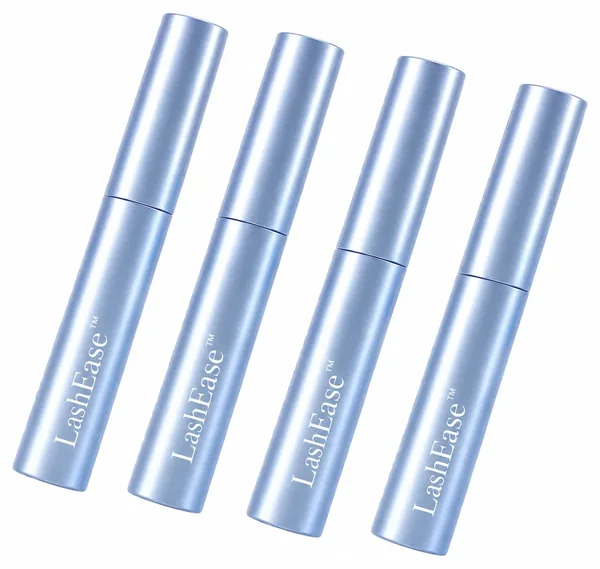
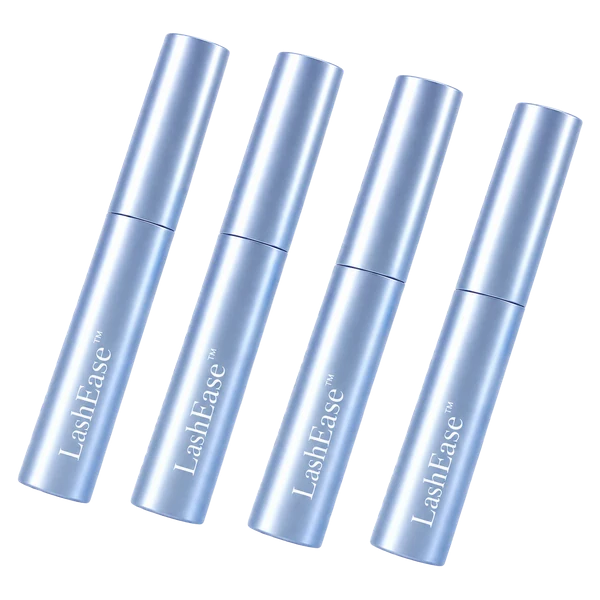
P281 BR+ZA: transparent picker thumbs (sel_1/2/4), thumb box transparent

diff --git a/cilivida-br/sp.css b/cilivida-br/sp.css
@@ -1328,7 +1328,8 @@
     width:auto; height:auto;
     object-fit:contain;
     display:block;
-  }:where(#cilivida-br-sp-root) .cvd-title{ font-size:26px; color:var(--brand-dk); margin:4px 0 12px; }:where(#cilivida-br-sp-root) .cvd-card{ border:1.5px solid #E2E7EE; border-radius:18px; box-shadow:0 2px 10px rgba(16,40,90,.06); }:where(#cilivida-br-sp-root) .cvd-card.is-selected{ border:2.5px solid var(--brand); background:#EEF8F3; box-shadow:0 10px 26px -12px rgba(11,125,87,.45); }:where(#cilivida-br-sp-root) .cvd-thumb{ background:#fff; border:1px solid #EEF1F5; }:where(#cilivida-br-sp-root) .cvd-name{ color:var(--ink); }:where(#cilivida-br-sp-root) .cvd-ribbon{ top:-12px; padding:3px 11px; letter-spacing:.5px; box-shadow:0 2px 6px rgba(16,40,90,.12); }:where(#cilivida-br-sp-root) .cvd-card-cta{ border-radius:999px; }
+  }:where(#cilivida-br-sp-root) .cvd-title{ font-size:26px; color:var(--brand-dk); margin:4px 0 12px; }:where(#cilivida-br-sp-root) .cvd-card{ border:1.5px solid #E2E7EE; border-radius:18px; box-shadow:0 2px 10px rgba(16,40,90,.06); }:where(#cilivida-br-sp-root) .cvd-card.is-selected{ border:2.5px solid var(--brand); background:#EEF8F3; box-shadow:0 10px 26px -12px rgba(11,125,87,.45); }:where(#cilivida-br-sp-root) .cvd-thumb{ background:transparent !important; border:0 !important; }
+  :where(#cilivida-br-sp-root) .cvd-name{ color:var(--ink); }:where(#cilivida-br-sp-root) .cvd-ribbon{ top:-12px; padding:3px 11px; letter-spacing:.5px; box-shadow:0 2px 6px rgba(16,40,90,.12); }:where(#cilivida-br-sp-root) .cvd-card-cta{ border-radius:999px; }
   :where(#cilivida-br-sp-root) .cvd-thumb{ aspect-ratio:1 / 1 !important; object-fit:contain !important; }@media (prefers-reduced-motion:reduce){:where(#cilivida-br-sp-root) .cvd-card, :where(#cilivida-br-sp-root) .cvd-cta{ transition:none; }}@media (max-width:360px){:where(#cilivida-br-sp-root) .cvd-thumb{ width:76px; height:76px; }:where(#cilivida-br-sp-root) .cvd-unit b{ font-size:24px; }:where(#cilivida-br-sp-root) .cvd-ribbon{ font-size:13px; letter-spacing:.1px; }}:where(#cilivida-br-sp-root) .cvd-card{ flex-wrap:wrap !important; padding:18px 16px 16px !important; cursor:default !important; }:where(#cilivida-br-sp-root) .cvd-thumb{ width:104px !important; height:104px !important; }:where(#cilivida-br-sp-root) .cvd-card-cta{
     flex:0 0 100%; display:block; box-sizing:border-box; text-align:center; text-decoration:none;
     background:var(--brand); color:#fff; border-radius:12px; padding:15px 12px; margin-top:4px;

diff --git a/lashease-za/sp.css b/lashease-za/sp.css
@@ -1328,7 +1328,8 @@
     width:auto; height:auto;
     object-fit:contain;
     display:block;
-  }:where(#lashease-za-sp-root) .lez-thumb{ aspect-ratio:1 / 1 !important; object-fit:contain !important; }@media (prefers-reduced-motion:reduce){:where(#lashease-za-sp-root) .lez-card, :where(#lashease-za-sp-root) .lez-cta{ transition:none; }}@media (max-width:360px){:where(#lashease-za-sp-root) .lez-thumb{ width:76px; height:76px; }:where(#lashease-za-sp-root) .lez-unit b{ font-size:24px; }:where(#lashease-za-sp-root) .lez-ribbon{ font-size:13px; letter-spacing:.1px; }}:where(#lashease-za-sp-root) .lez-card{ flex-wrap:wrap !important; padding:18px 16px 16px !important; cursor:default !important; }:where(#lashease-za-sp-root) .lez-thumb{ width:104px !important; height:104px !important; }:where(#lashease-za-sp-root) .lez-card-cta{
+  }:where(#lashease-za-sp-root) .lez-thumb{ aspect-ratio:1 / 1 !important; object-fit:contain !important; }
+  :where(#lashease-za-sp-root) .lez-thumb{ background:transparent !important; border:0 !important; }@media (prefers-reduced-motion:reduce){:where(#lashease-za-sp-root) .lez-card, :where(#lashease-za-sp-root) .lez-cta{ transition:none; }}@media (max-width:360px){:where(#lashease-za-sp-root) .lez-thumb{ width:76px; height:76px; }:where(#lashease-za-sp-root) .lez-unit b{ font-size:24px; }:where(#lashease-za-sp-root) .lez-ribbon{ font-size:13px; letter-spacing:.1px; }}:where(#lashease-za-sp-root) .lez-card{ flex-wrap:wrap !important; padding:18px 16px 16px !important; cursor:default !important; }:where(#lashease-za-sp-root) .lez-thumb{ width:104px !important; height:104px !important; }:where(#lashease-za-sp-root) .lez-card-cta{
     flex:0 0 100%; display:block; box-sizing:border-box; text-align:center; text-decoration:none;
     background:var(--brand); color:#fff; border-radius:12px; padding:15px 12px; margin-top:4px;
     font-size:18px; font-weight:900; letter-spacing:.3px; text-transform:uppercase; line-height:1.2;
